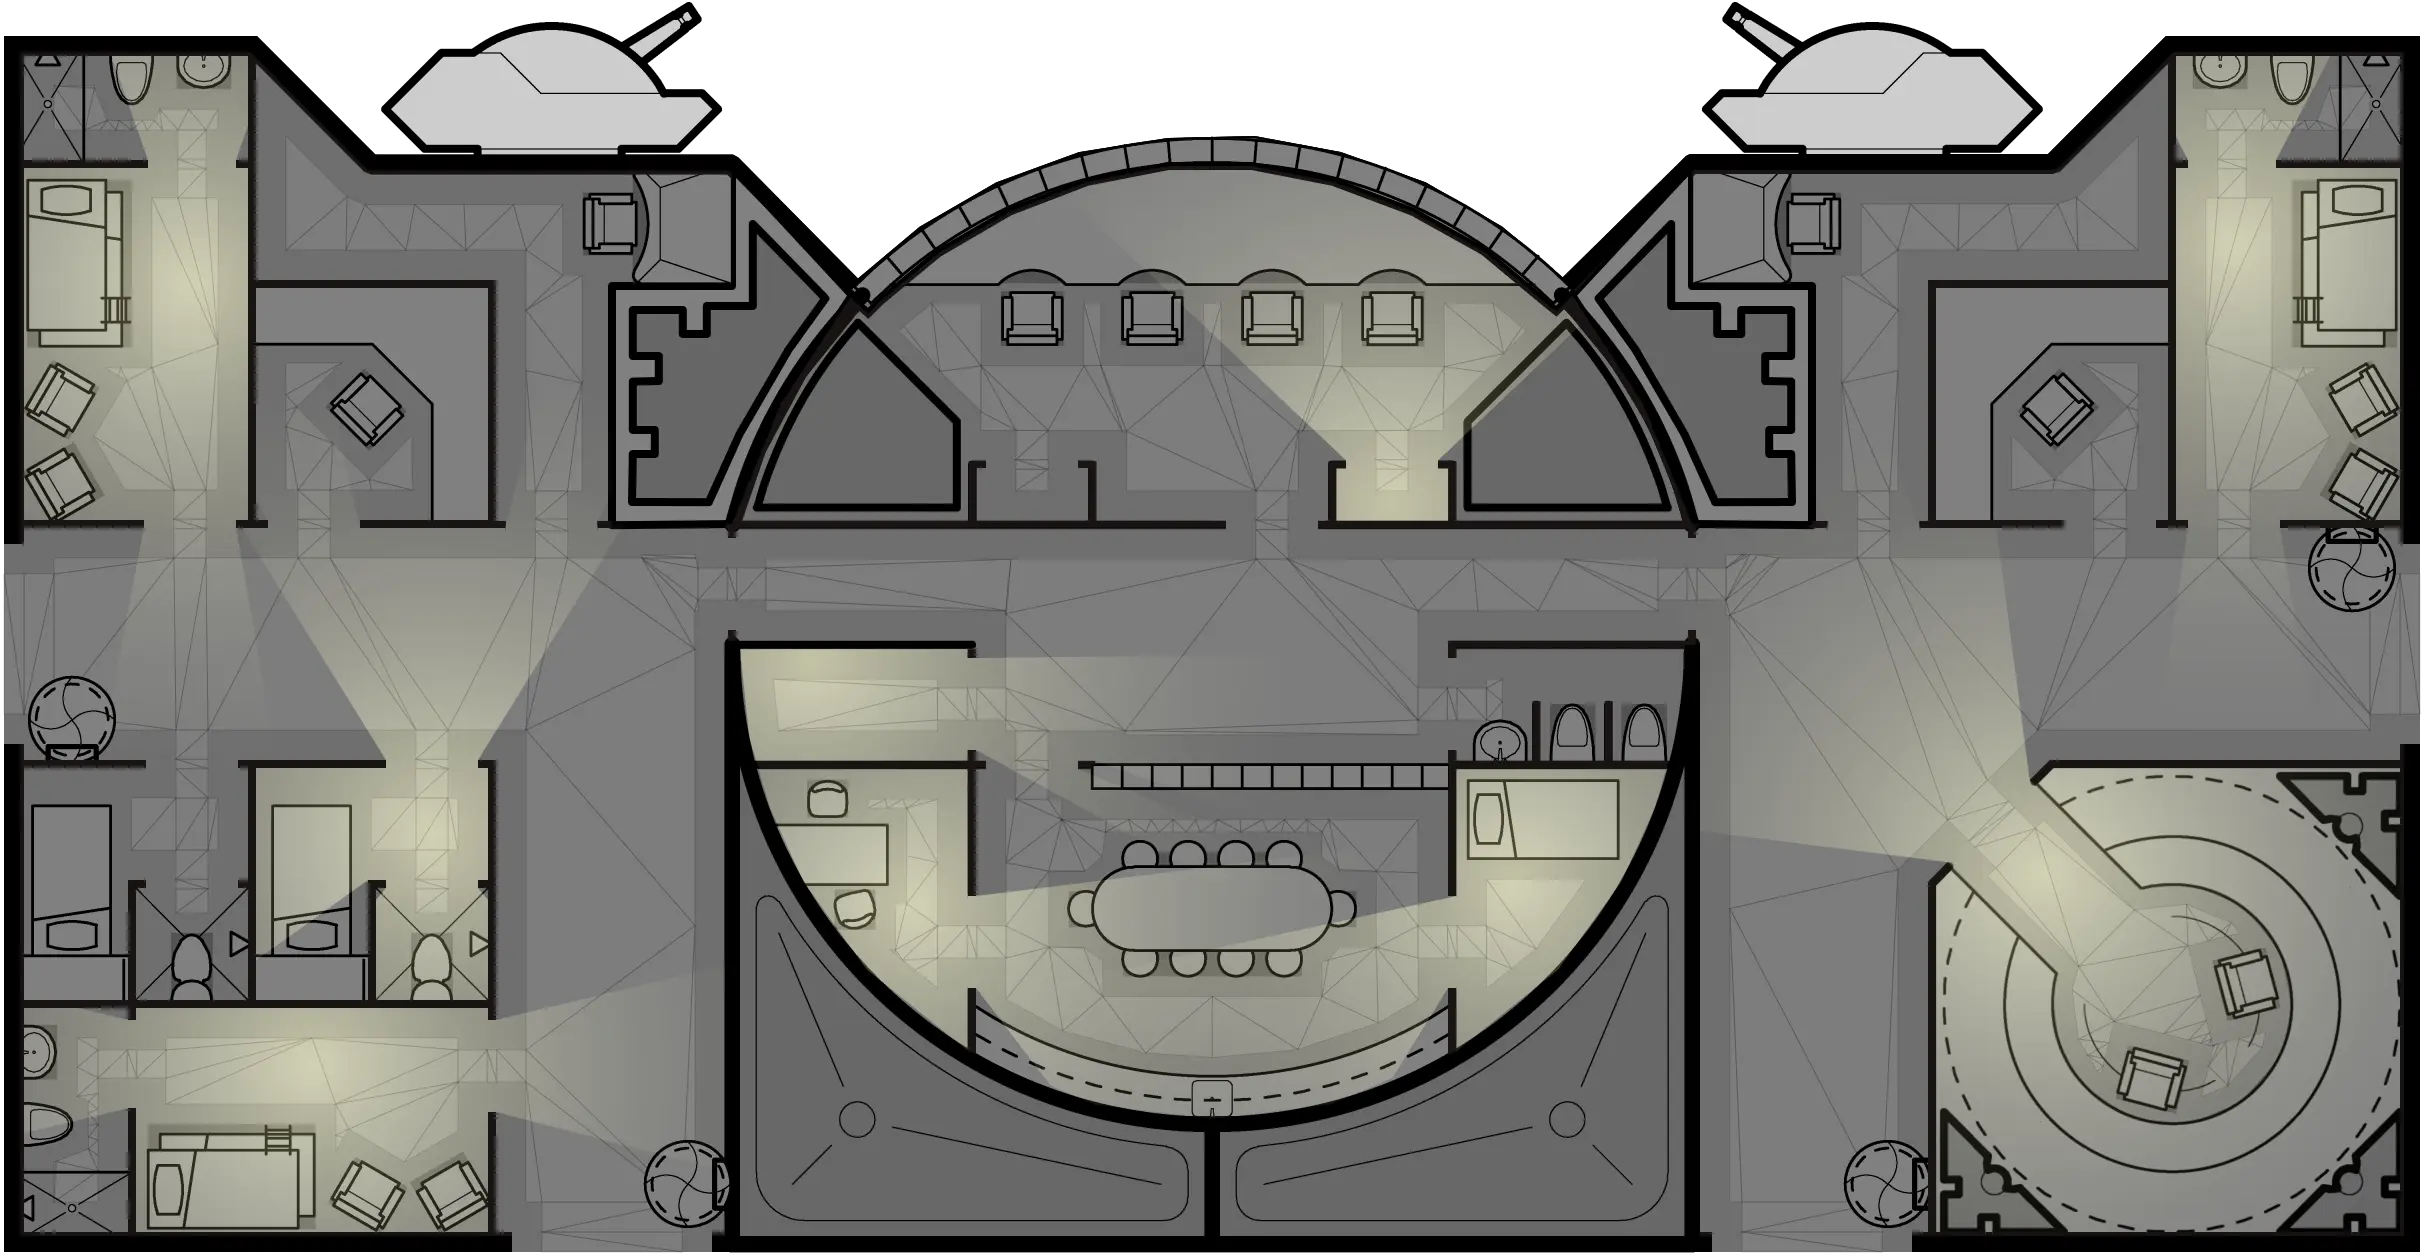
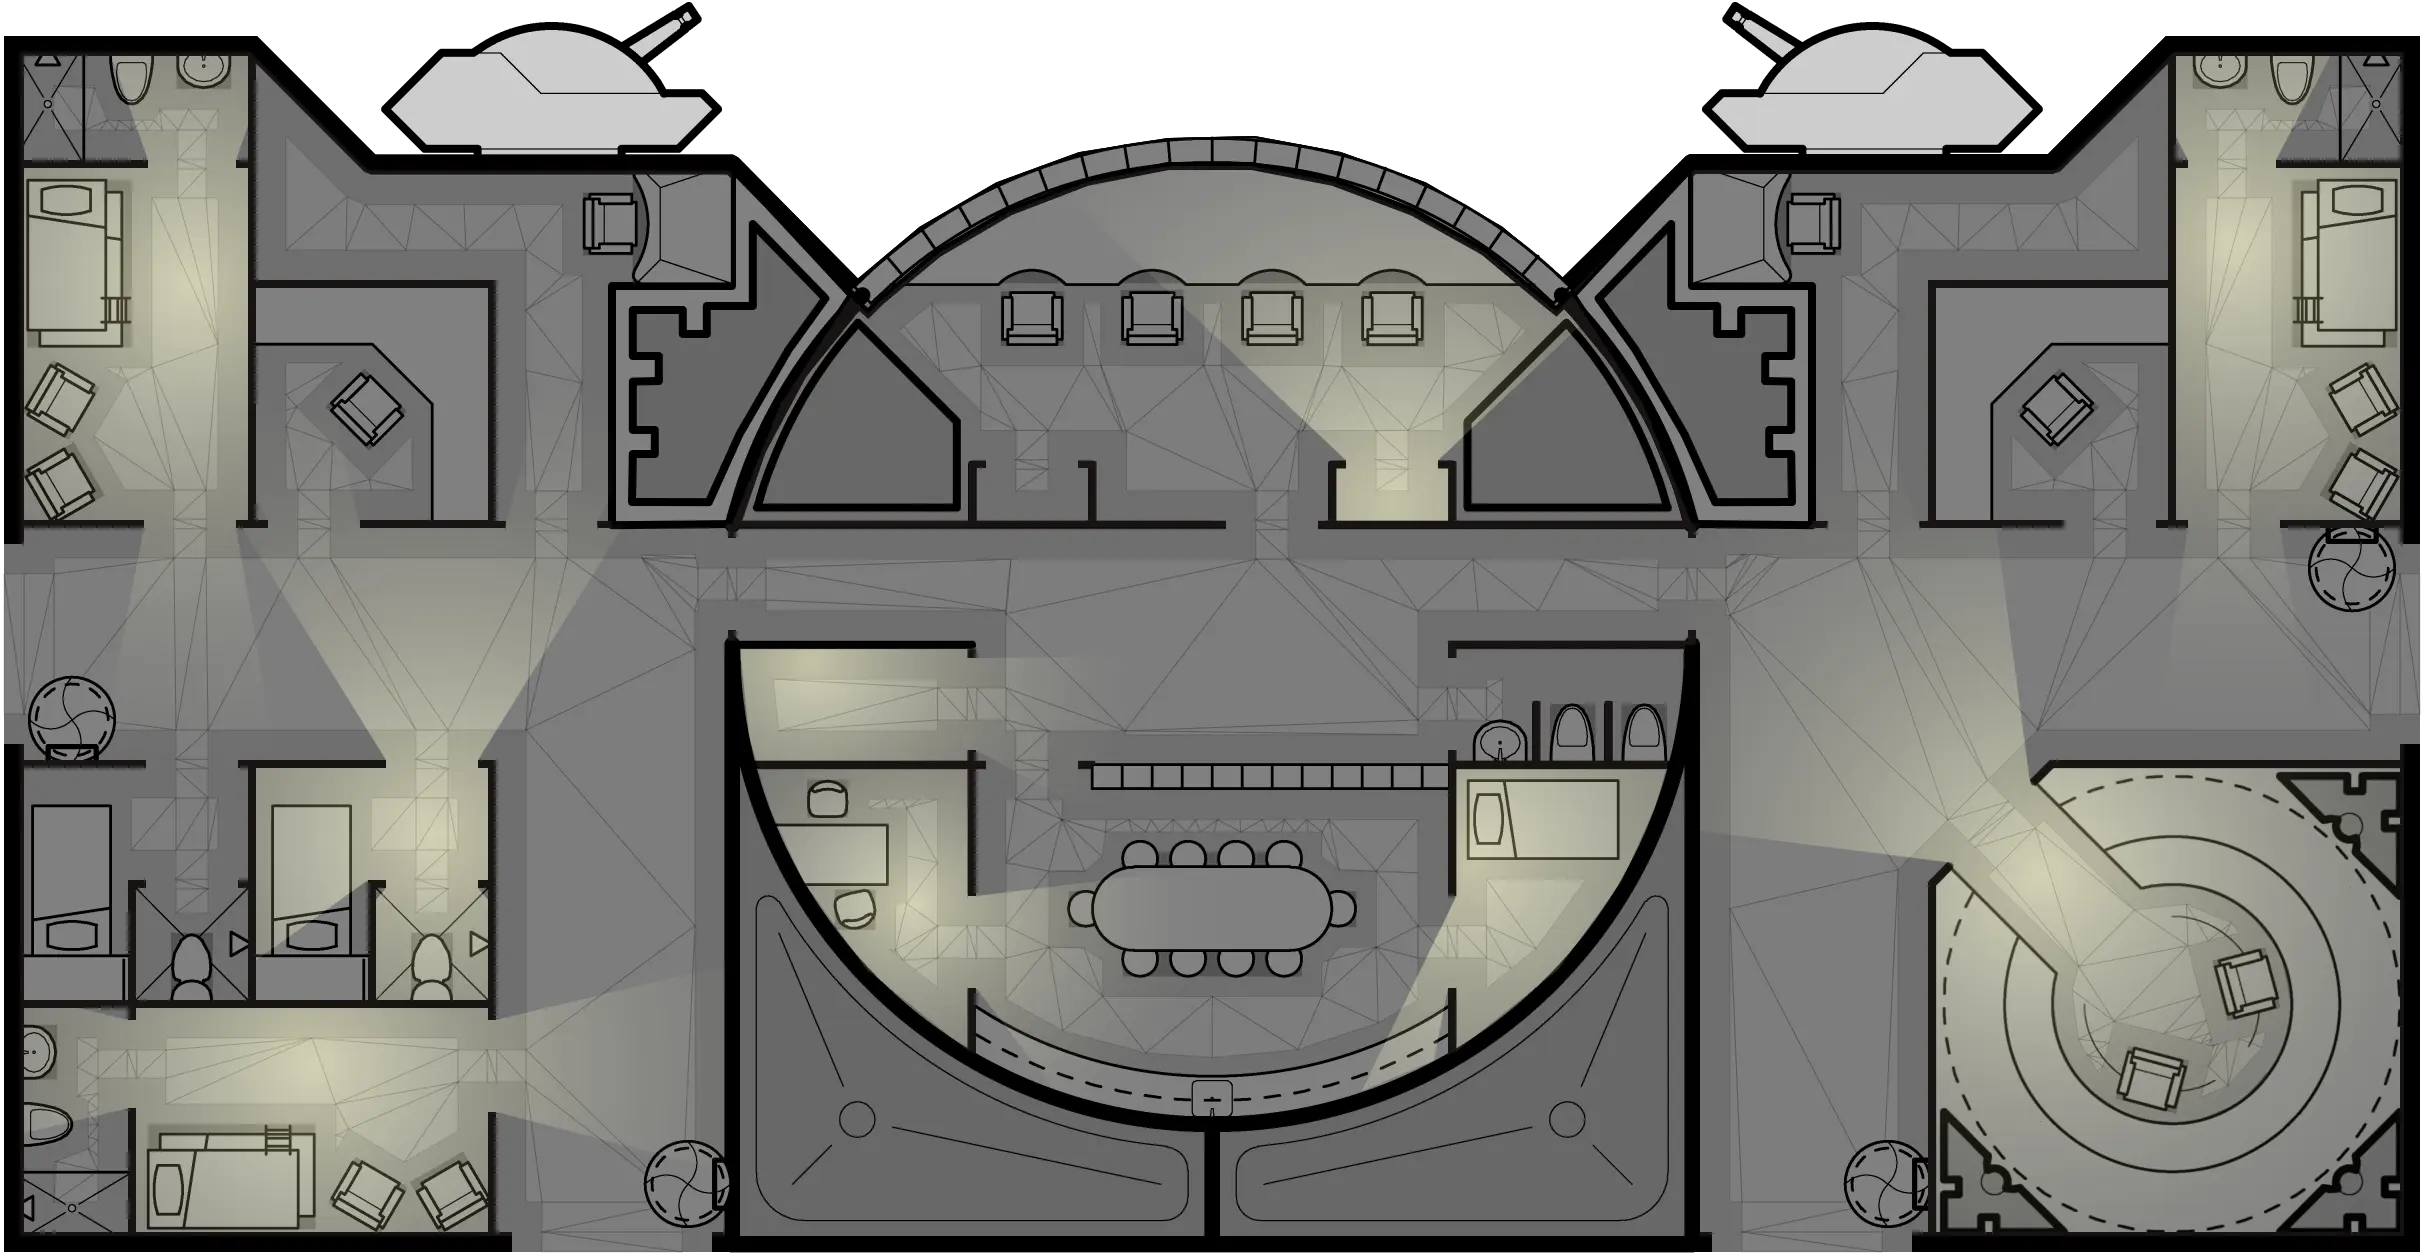
feat: GeomorphEdit restricts light by distance

Changed region(s): [[0.4332, 0.7142, 0.6188, 0.8694]]

diff --git a/src/projects/geomorph/GeomorphEdit.jsx b/src/projects/geomorph/GeomorphEdit.jsx
@@ -7,6 +7,9 @@ import { css, cx } from "@emotion/css";
 import { useQuery } from "react-query";
 
 import { Poly } from "../geom/poly";
+import { gmGraphClass } from "../graph/gm-graph";
+import { createGeomorphData } from "./use-geomorph-data";
+import { defaultLightDistance } from "../service/const";
 import { assertDefined, hashText } from "../service/generic";
 import { loadImage } from "../service/dom";
 import { computeLightPolygons, createLayout, geomorphDataToInstance, labelMeta } from "../service/geomorph";
@@ -16,10 +19,8 @@ import { renderGeomorph } from "../geomorph/render-geomorph";
 import * as defaults from "../example/defaults";
 import svgJson from '../../../static/assets/symbol/svg.json'; // CodeSandbox?
 import SvgPanZoom from '../panzoom/SvgPanZoom';
-import { createGeomorphData } from "./use-geomorph-data";
-import useStateRef from "projects/hooks/use-state-ref";
-import useUpdate from "projects/hooks/use-update";
-import { gmGraphClass } from "projects/graph/gm-graph";
+import useStateRef from "../hooks/use-state-ref";
+import useUpdate from "../hooks/use-update";
 
 /** @type {Geomorph.LayoutKey} */
 // const layoutKey = 'g-101--multipurpose';
@@ -48,10 +49,11 @@ function Geomorph({ def, transform, disabled }) {
   const { data, error } = useQuery(
     `GeomorphEdit--${def.key}--${gmHash}`,
     async () => {
+      // compute layout and GeomorphData from def
       const symbolLookup = deserializeSvgJson(/** @type {*} */ (svgJson));
-      // compute layout from def
       const layout = await createLayout(def, symbolLookup)
       const gm = await createGeomorphData(layout);
+      // create geomorph graph
       const gmInstance = geomorphDataToInstance(gm, [1, 0, 0, 1, 0, 0]);
       const gmGraph = gmGraphClass.fromGms([gmInstance]);
       // ℹ Provide state needed by gmGraph
@@ -118,7 +120,12 @@ function Geomorph({ def, transform, disabled }) {
         data.gm, symbolLookup, state.canvas, (pngHref) => loadImage(pngHref),
         { scale: 1, navTris: false },
       );
-      state.allLightPolys = computeLightPolygons(data.gm);
+      // intersect with circles (corresponds to bake-lighting radial fill)
+      state.allLightPolys = computeLightPolygons(data.gm).map((lightPoly, lightId) => {
+        const { distance = defaultLightDistance, position } = data.gm.lightSrcs[lightId];
+        const circlePoly = Poly.circle(position, distance, 30);
+        return Poly.intersect([circlePoly], [lightPoly])[0] ?? new Poly;
+      });
     }
   }, [data]);
 
@@ -213,72 +220,73 @@ function Geomorph({ def, transform, disabled }) {
   ) : null;
 }
 
+const pointDim = 8;
+
 const rootCss = css`
   background-color: #444;
   height: 100%;
-  g image.debug {
-    opacity: 0.2;
-    pointer-events: none;
-  }
-  g .doors rect {
-    fill: white;
-    stroke: black;
-  }
-  g path {
-    pointer-events: none;
-  }
-
-  g foreignObject {
-    font: ${labelMeta.font};
-
-    canvas.geomorph {
-      position: absolute;
+  g {
+    image.debug {
+      opacity: 0.2;
       pointer-events: none;
     }
-    
-    div.main-container {
-      position: absolute;
+    path {
+      pointer-events: none;
     }
-
-    div.label {
-      position: absolute;
-      padding: ${labelMeta.padY}px ${labelMeta.padX}px;
+    foreignObject {
+      font: ${labelMeta.font};
+  
+      canvas.geomorph {
+        position: absolute;
+        pointer-events: none;
+      }
       
-      cursor: pointer;
-      pointer-events: auto;
-      user-select: none; /** TODO better way? */
-
-      background: black;
-      color: white;
-    }
-    div.door {
-      position: absolute;
-      cursor: pointer;
-      border: 1px solid black;
-      &.open {
-        background: none;
+      div.main-container {
+        position: absolute;
       }
-      &.closed {
-        background: red;
+  
+      div.label {
+        position: absolute;
+        padding: ${labelMeta.padY}px ${labelMeta.padX}px;
+        
+        cursor: pointer;
+        pointer-events: auto;
+        user-select: none; /** TODO better way? */
+  
+        background: black;
+        color: white;
       }
-    }
-    div.view-point {
-      position: absolute;
-      cursor: pointer;
-      background: red;
-      width: 5px;
-      height: 5px;
-      border-radius: 50%;
-    }
-    div.light-point {
-      position: absolute;
-      cursor: pointer;
-      background: #9999ff;
-      width: 5px;
-      height: 5px;
-      border-radius: 50%;
+      div.door {
+        position: absolute;
+        cursor: pointer;
+        border: 1px solid black;
+        &.open {
+          background: none;
+        }
+        &.closed {
+          background: red;
+        }
+      }
+      div.view-point {
+        position: absolute;
+        cursor: pointer;
+        background: green;
+        width: ${pointDim}px;
+        height: ${pointDim}px;
+        border-radius: 50%;
+      }
+      div.light-point {
+        position: absolute;
+        cursor: pointer;
+        background: #ffff99;
+        width: ${pointDim}px;
+        height: ${pointDim}px;
+        border-radius: 50%;
+        border: 1px solid black;
+      }
     }
   }
+
 `;
 
 const symbolLookup = deserializeSvgJson(/** @type {*} */ (svgJson));

diff --git a/src/projects/service/geomorph.js b/src/projects/service/geomorph.js
@@ -6,7 +6,7 @@ import { extractGeomsAt, hasTitle } from './cheerio';
 import { geom } from './geom';
 import { roomGraphClass } from '../graph/room-graph';
 import { Builder } from '../pathfinding/Builder';
-import { hullDoorOutset, hullOutset, obstacleOutset, precision, svgSymbolTag, wallOutset } from './const';
+import { distanceTagRegex, hullDoorOutset, hullOutset, obstacleOutset, precision, svgSymbolTag, wallOutset } from './const';
 import { error, warn } from './log';
 import { fillRing } from "../service/dom";
 
@@ -242,12 +242,8 @@ export async function createLayout(def, lookup, triangleService) {
   /** @type {Geomorph.ParsedLayout['lightSrcs']} */
   const lightSrcs = filterSingles(groups.singles, svgSymbolTag.light).map(({ poly, tags }) => ({
     position: poly.center,
-    // 🚧 remove?
-    direction: tags.reduce((agg, tag) =>
-      agg ? agg : tag.match(/^direction_-?[\d]+_-?[\d]+$/) ? new Vect(...tag.split('_').slice(1).map(Number)) : agg
-    ,
-    /** @type {undefined | Vect} */ (undefined)),
     roomId: findRoomIdContaining(rooms, poly.center),
+    distance: matchedMap(tags, distanceTagRegex, ([, distStr]) => Number(distStr)),
   }));
 
   return {
@@ -432,10 +428,10 @@ export function serializeLayout({
     navPoly: navPoly.map(x => x.geoJson),
     navZone,
     roomGraph: roomGraph.plainJson(),
-    lightSrcs: lightSrcs.map(({ position, roomId, direction }) => ({
+    lightSrcs: lightSrcs.map(({ position, roomId, distance }) => ({
       position: position.json,
       roomId,
-      direction: direction?.json,
+      distance,
     })),
     hullPoly: hullPoly.map(x => x.geoJson),
     hullRect,
@@ -444,6 +440,23 @@ export function serializeLayout({
     items,
   };
   return json;
+}
+
+/**
+ * @template T
+ * @param {string[]} tags 
+ * @param {RegExp} regex
+ * @param {(matching: RegExpMatchArray) => T} [transform]
+ * @returns {T | undefined}
+ */
+export function matchedMap(tags, regex, transform) {
+  let matching = /** @type {RegExpMatchArray | null} */ (null);
+  tags.find(tag => matching = tag.match(regex));
+  if (transform) {
+    return matching ? transform(matching) : undefined;
+  } else {// Default to full matching, assuming T is string
+    return /** @type {*} */ (matching?.[0]);
+  }
 }
 
 /** @param {Geomorph.LayoutJson} layout */
@@ -474,7 +487,7 @@ export function parseLayout({
     roomGraph: roomGraphClass.from(roomGraph),
     lightSrcs: lightSrcs.map(x => ({
       position: Vect.from(x.position),
-      direction: x.direction ? Vect.from(x.direction) : undefined,
+      distance: x.distance,
       roomId: x.roomId,
     })),
 
@@ -616,10 +629,15 @@ export function computeLightPolygons(gm) {
     ...gm.windows.map(x => x.poly),
   ]);
 
-  return lightSources.map(({ position, direction }, i) => {
+  return lightSources.map(({ position, distance: _ }, i) => {
     const exterior = allRoomsAndDoors.find(poly => poly.contains(position));
     if (exterior) {
-      return geom.lightPolygon({ position, range: 2000, exterior, direction });
+      // 🚧 compute associated door rects and warn if needed
+      return geom.lightPolygon({
+        position,
+        range: 2000, // Must use large range (exceeding geomorph bounds) for good polygon
+        exterior,
+      });
     } else {
       console.error(`ignored light ${i} (${JSON.stringify(position)}): no exterior found`);
       return new Poly;

diff --git a/src/scripts/bake-lighting.js b/src/scripts/bake-lighting.js
@@ -8,6 +8,7 @@ import fs from 'fs';
 import path from 'path';
 import childProcess from 'child_process';
 
+import { defaultLightDistance } from '../projects/service/const';
 import { saveCanvasAsFile } from '../projects/service/file';
 import { computeLightPolygons } from '../projects/service/geomorph';
 import { fillPolygon } from '../projects/service/dom';
@@ -53,14 +54,14 @@ async function main() {
 
   ctxt.globalCompositeOperation = 'lighter';
   // Radial fill with drop off
-  lightPolys.forEach((light, i) => {
-    const { position, direction } = lightSources[i];
-    const gradient = ctxt.createRadialGradient(position.x, position.y, 1, position.x, position.y, 300)
+  lightPolys.forEach((lightPoly, i) => {
+    const { position, distance = defaultLightDistance } = lightSources[i];
+    const gradient = ctxt.createRadialGradient(position.x, position.y, 1, position.x, position.y, distance)
     gradient.addColorStop(0, '#ffffaa55');
     gradient.addColorStop(0.9, "#00000000");
     gradient.addColorStop(1, "#00000000");
     ctxt.fillStyle = gradient;
-    fillPolygon(ctxt, [light]);
+    fillPolygon(ctxt, [lightPoly]);
   });
   //#endregion
 

diff --git a/src/projects/geom/poly.js b/src/projects/geom/poly.js
@@ -151,6 +151,21 @@ export class Poly {
     this._triangulationIds = indexTriples;
     this._triangulation = this.triangleIdsToPolys(this._triangulationIds);
   }
+
+  /**
+   * 
+   * @param {Geom.VectJson} center 
+   * @param {number} radius 
+   * @param {number} segments 
+   */
+  static circle(center, radius, segments) {
+    return new Poly(
+      [...Array(segments)].map((_, i) => new Vect(
+        center.x + radius * Math.cos( i * ((2 * Math.PI) / segments) ),
+        center.y + radius * Math.sin( i * ((2 * Math.PI) / segments) ),
+      ))
+    );
+  }
   
   /**
    * @private

diff --git a/src/projects/geomorph/geomorph-types.d.ts b/src/projects/geomorph/geomorph-types.d.ts
@@ -82,8 +82,8 @@ declare namespace Geomorph {
     /** Sources of lights rendered inside PNG  */
     lightSrcs: {
       position: V;
-      direction?: V; // 🚧 remove?
       roomId: number;
+      distance?: number;
     }[];
 
     /** Should probably have exactly one polygon */

diff --git a/src/projects/service/const.ts b/src/projects/service/const.ts
@@ -125,3 +125,7 @@ export const svgSymbolTag = {
   /** Light positions inside geomorph */
   light: 'light',
 } as const;
+
+export const defaultLightDistance = 300;
+
+export const distanceTagRegex = /^distance-(\d+)$/;

diff --git a/docs/TODO.md b/docs/TODO.md
@@ -13,7 +13,9 @@
   - ✅ lightSrc has roomId
   - ✅ GeomorphEdit can show light polys
   - ✅ refactor GeomorphEdit state
-  - GeomorphEdit restricts light by radius
+  - ✅ GeomorphEdit restricts light by distance
+    - ✅ review bake-lighting
+    - ✅ support tags `light distance-180`
   - store light `{ doorId, rect }`s
     - permit multiple subsequent doorways?
   - GeomorphEdit shows light decompositions
